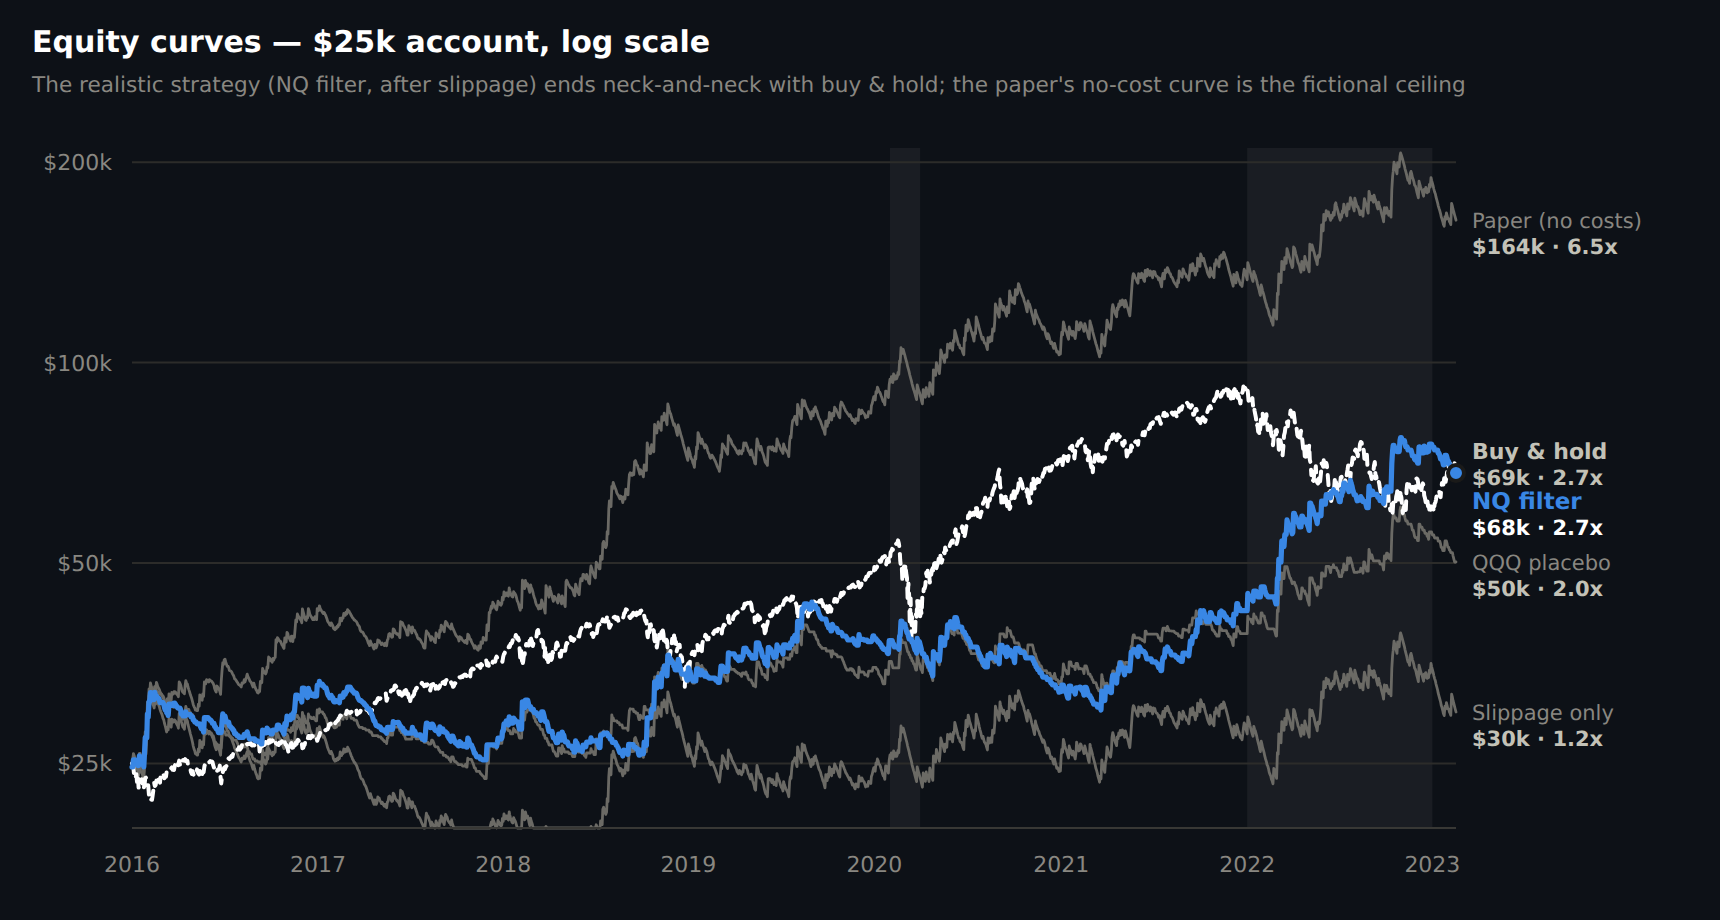
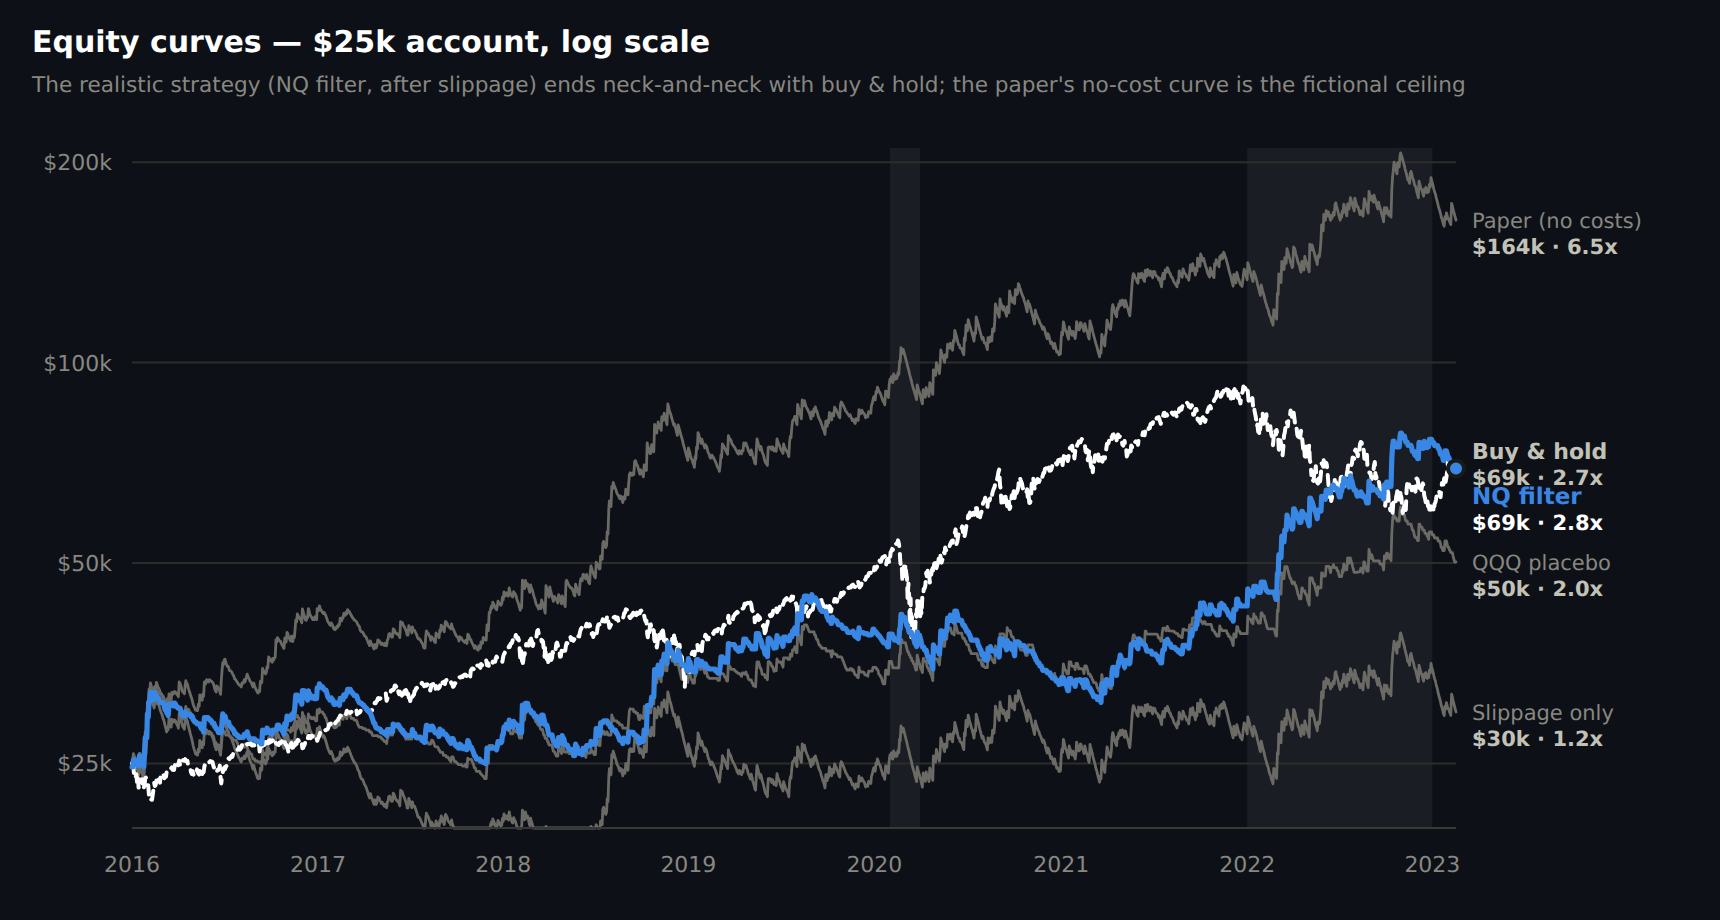
Refresh equity chart from the regenerated curves
Rebuilt the hero chart on assets/equity_curves.csv as produced by the packaged
engine: the NQ-filtered strategy now ends at $69,332 (2.8x) against buy & hold
at $68,706 (2.7x). Still neck-and-neck -- consistent with the overlapping
bootstrap Sharpe intervals -- with the labels matching the results table.

Claude-Session: https://claude.ai/code/session_014CpWFkVyKQ9zfoERyvsjby

diff --git a/README.md b/README.md
@@ -26,7 +26,7 @@ followed by three questions the paper never asks:
 
 <picture>
   <source media="(prefers-color-scheme: dark)" srcset="assets/equity_dark.png">
-  <img alt="Equity curves on a log scale, 2016-2023: the paper's no-cost replication reaches $164k (6.5x); the NQ-filtered strategy after slippage ends at $68k (2.7x), neck-and-neck with QQQ buy & hold at $69k (2.7x); slippage-only lags at $30k" src="assets/equity_light.png">
+  <img alt="Equity curves on a log scale, 2016-2023: the paper's no-cost replication reaches $164k (6.5x); the NQ-filtered strategy after slippage ends at $69k (2.8x), neck-and-neck with QQQ buy & hold at $69k (2.7x); slippage-only lags at $30k" src="assets/equity_light.png">
 </picture>
 
 *One picture, the whole thesis: the realistic strategy (blue) tracks buy & hold
